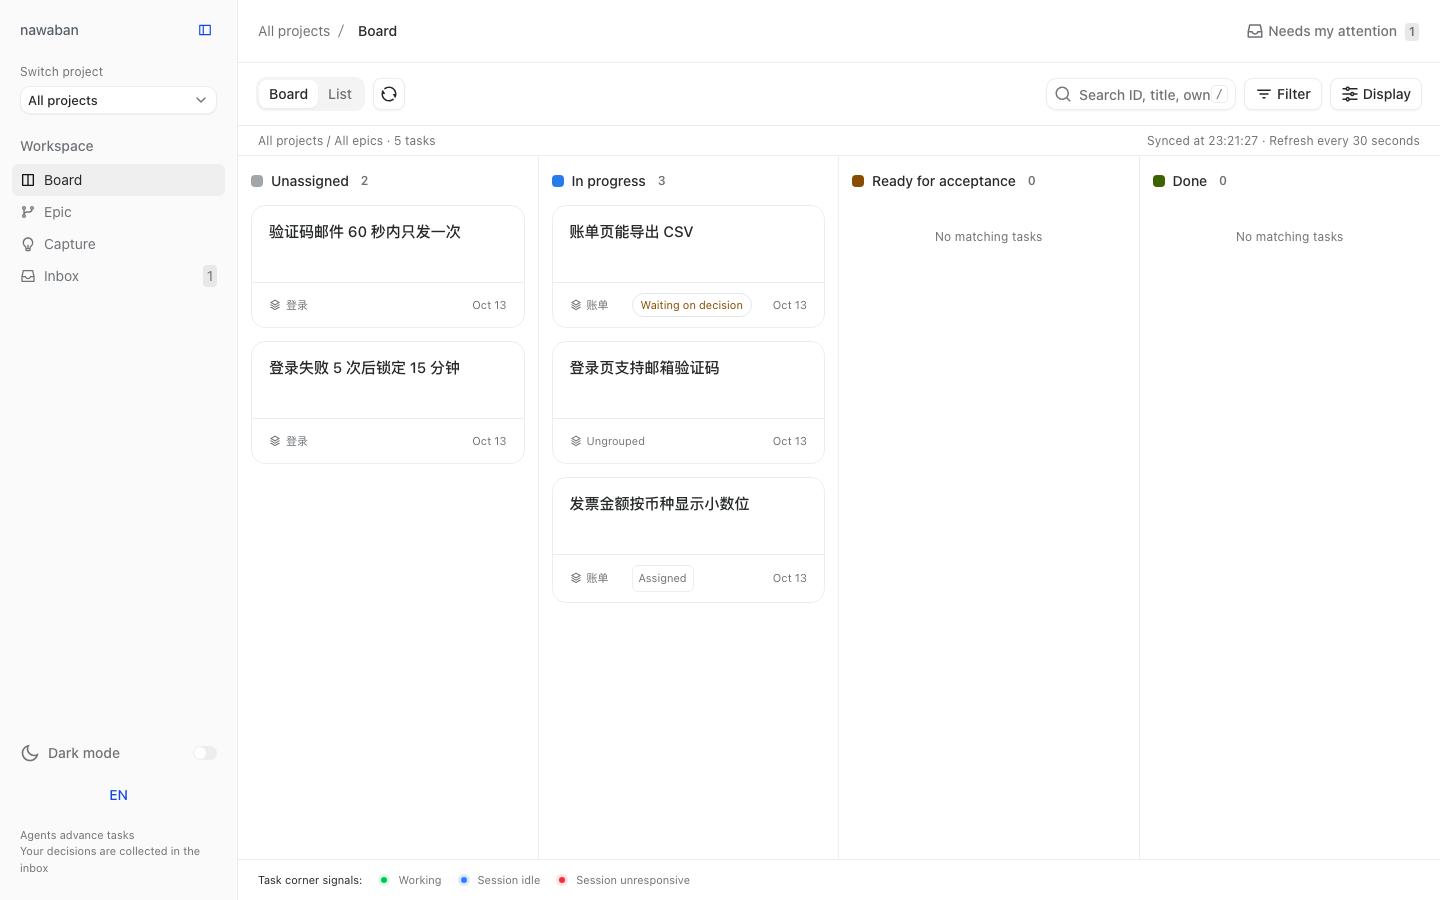
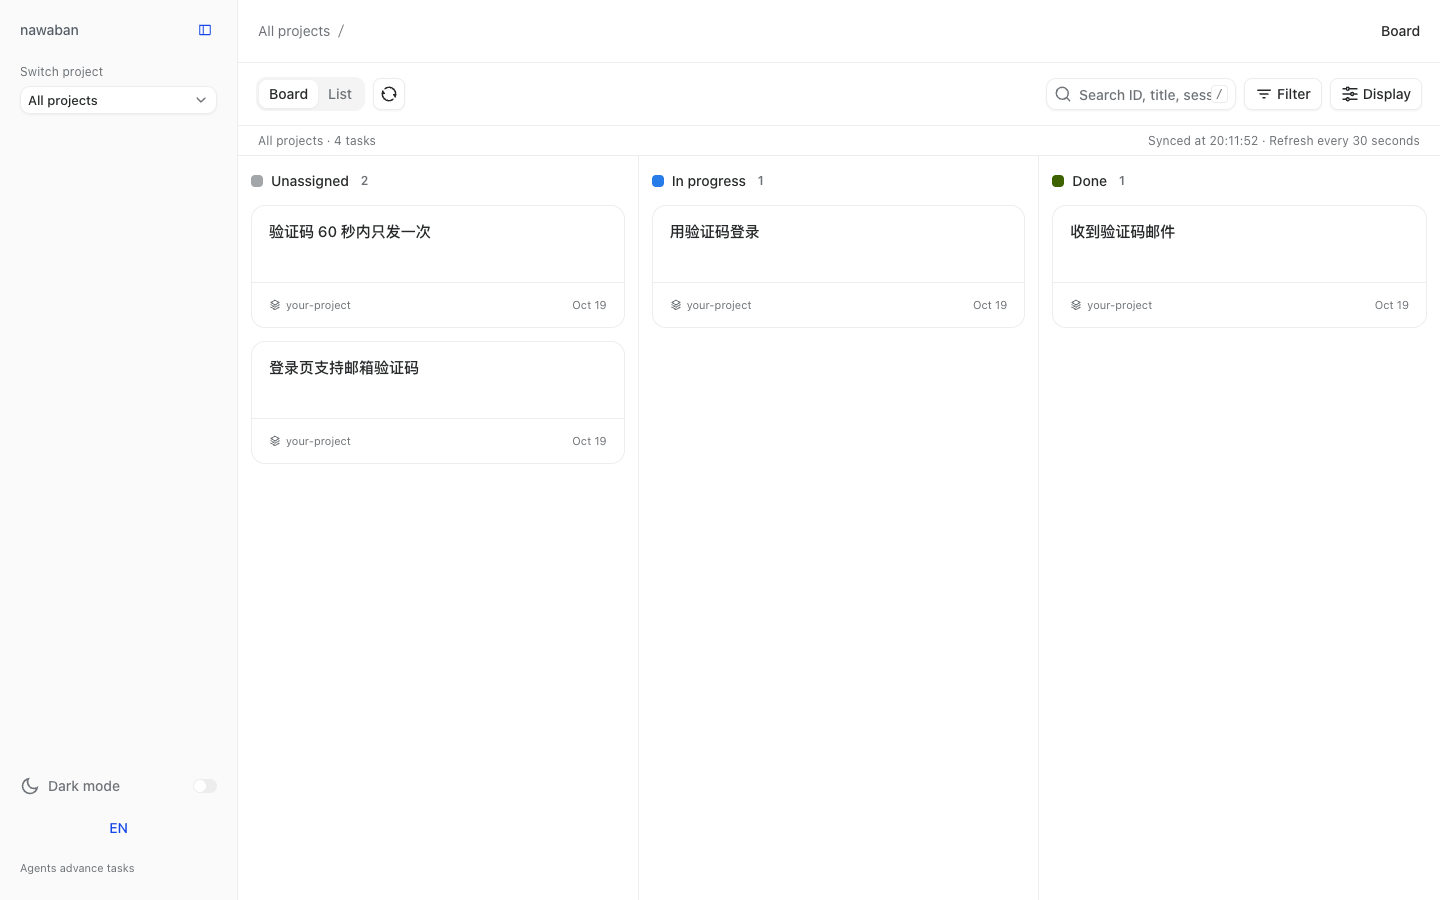
docs: restore the public README layout with a current board screenshot and task detail (NAWABAN-README-002-01)
Section order of the #29 README, every sentence from the current code:
screenshots recaptured from the current UI on a demo board, console
blocks pasted from a real run, Python 3.9 checked by running the CLI
under 3.9.6. Diagram slots point at the SVGs added next.

diff --git a/README.md b/README.md
@@ -4,18 +4,32 @@
 
 **A local task tracker that Claude Code and Codex sessions share with you: every task of every project on one board, with the notes, decisions and links that show how it got done.**
 
-nawaban records two things: a **task** (title, markdown body with its acceptance criteria, parent, blockers, status and the session working on it) and an **event** log per task (notes, status changes, decisions and links). The workflow itself (spec, tasks, implementation, review) comes from the engineering skills your agents already use; nawaban is their issue tracker. Nothing hooks into your sessions and no command blocks a tool call.
+Your agents publish a spec, split it into tasks, claim the ones that are ready and record what they decide along the way. You watch it on a board in your browser, and the agents only stop to ask you about the things that are yours to decide.
 
-## Parts
+![The nawaban board: one task done, one in progress, and two waiting to be claimed](docs/images/board.png)
 
-All of them live in this repository and run on your machine.
+*A demo board: a spec and three tasks. One task is done, one is in progress, and one waits for the task it is blocked by.*
+
+## Architecture
+
+[![Architecture diagram: a Claude Code or Codex session reads the nawaban skill and runs the CLI; the CLI reads and writes the board file; the board server only reads it and shows you the page](docs/images/architecture.svg)](https://victorgpt.github.io/nawaban/diagrams/architecture.html)
+
+*Click the diagram for the interactive version.*
+
+nawaban has four parts. All of them live in this repository and run on your machine. Nothing hooks into your sessions and no command blocks a tool call.
 
 | Part | Where | What it does |
 | --- | --- | --- |
 | Skill | `skills/nawaban/` | One instruction file the agent reads: how to publish a spec and its tasks, find the frontier, claim a task, record notes, decisions and links, and close it. It also carries three rules: ask the user only about product behaviour, outside statements and production releases; record every choice as a decision; claim before working. |
 | CLI | `nawaban/cli.py` | Python command line. Every write to the board goes through it. |
-| Board file | `.nawaban/nawaban.db` | One SQLite file holding tasks and events. |
+| Board file | `.nawaban/nawaban.db` | One SQLite file holding tasks and their events. |
 | Board | `nawaban/board_view.py`, `nawaban/webui/` | A local Python server and a React page that show the board and each task's detail. It only reads. |
+
+## How a task moves
+
+[![Flow diagram: a spec is split into tasks; tasks whose blockers are closed form the frontier; a session claims one, records notes, decisions and links, and closes it, which puts the next task on the frontier; questions only you can answer come to you in the conversation and are recorded as decisions](docs/images/flow.svg)](https://victorgpt.github.io/nawaban/diagrams/flow.html)
+
+Blue is the path every task takes. Orange is the only path that needs you: the agent asks you in the conversation about how the product should behave, what is said to the outside, or whether something goes to production, and records your answer as a decision.
 
 ## Is it for you?
 
@@ -23,9 +37,11 @@ It fits when:
 
 - You run several Claude Code or Codex sessions, across one or more repositories, and want to see who is doing what.
 - Your agents follow a spec → tasks → implementation workflow and need a place to record it.
+- You want to read later why something was built the way it was.
 
 It does not fit when:
 
+- You run one agent on one small task at a time. A chat history is enough.
 - You need a hosted board with accounts. The board is a SQLite file on your machine and a web page served on localhost.
 - You need English command output. The CLI messages are written in Chinese; the board UI has both languages.
 
@@ -77,7 +93,7 @@ About five minutes. One clone serves as both the plugin and the CLI.
 
 The agent runs these commands itself. They are shown here so you can read the board's history.
 
-A spec is published with its tasks; the second task waits for the first:
+A spec is published with its tasks; the second task is blocked by the first, so only the first is on the frontier:
 
 ```console
 $ nawaban create DEMO --title "登录页支持邮箱验证码" --body-file spec.md
@@ -90,27 +106,34 @@ $ nawaban list --parent DEMO --frontier
 DEMO-01  open  your-project  收到验证码邮件
 ```
 
-An agent claims the ready task. Another session trying the same task is told who holds it:
+A session claims the ready task. Another session trying the same task is told who holds it:
 
 ```console
 $ nawaban claim DEMO-01
-✓ claim DEMO-01 · 窗口 3f1c…
+✓ claim DEMO-01 · 窗口 demo
 $ nawaban claim DEMO-01
-✗ DEMO-01 在窗口 3f1c… 手上;确要接手加 --take
+✗ DEMO-01 在窗口 demo 手上;确要接手加 --take
 ```
 
-It records a decision and the pull request, then closes the task, which puts `DEMO-02` on the frontier:
+It records your answer to a question as a decision, links the pull request and closes the task, which puts `DEMO-02` on the frontier:
 
 ```console
-$ nawaban event DEMO-01 --kind decision --body "Question: 验证码有效期多长? Verdict: 10 分钟"
+$ nawaban event DEMO-01 --kind decision --by user --body "Question: 验证码有效期多长?
+Verdict: 10 分钟"
 ✓ event DEMO-01 · decision
 $ nawaban event DEMO-01 --kind link --body "pr:https://github.com/you/app/pull/12"
 ✓ event DEMO-01 · link
 $ nawaban close DEMO-01 --done
 ✓ close DEMO-01 → done
+$ nawaban list --parent DEMO --frontier
+DEMO-02  open  your-project  用验证码登录
 ```
 
-`nawaban show <id>` prints one task with its body, blockers and recent events. `nawaban --help` lists every command.
+On the board, each task opens to its body, its progress, what it is blocked by, what waits on it, and its events:
+
+![A task's detail on the board: current progress, acceptance criteria, the task it was blocked by (done), the task waiting on it, and its activity](docs/images/task.png)
+
+`nawaban show <id>` prints the same in the terminal. `nawaban --help` lists every command.
 
 <!-- Anchor linked from docs/install.md. -->
 ## Install as a plugin
@@ -122,6 +145,8 @@ The same checkout is a Claude Code plugin and a Codex plugin; it ships one skill
 | Topic | Page |
 | --- | --- |
 | GitHub and Codex install, session identity, running from a checkout | [docs/install.md](docs/install.md) |
+| Several repositories on one board, board filters and display | [docs/board.md](docs/board.md) |
+| Inactivity colours on cards | [docs/task-staleness.md](docs/task-staleness.md) |
 | Product vocabulary, in English and Chinese | [GLOSSARY.md](GLOSSARY.md) |
 | Repository layout and running the tests | [docs/development.md](docs/development.md) |
 | Release notes and legacy configuration | [CHANGELOG.md](CHANGELOG.md) |
